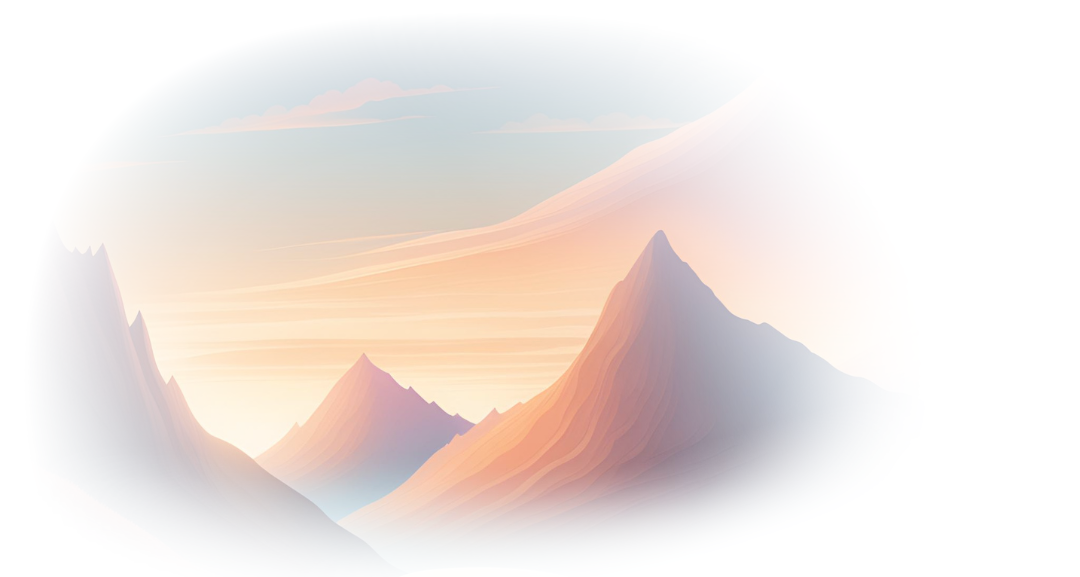
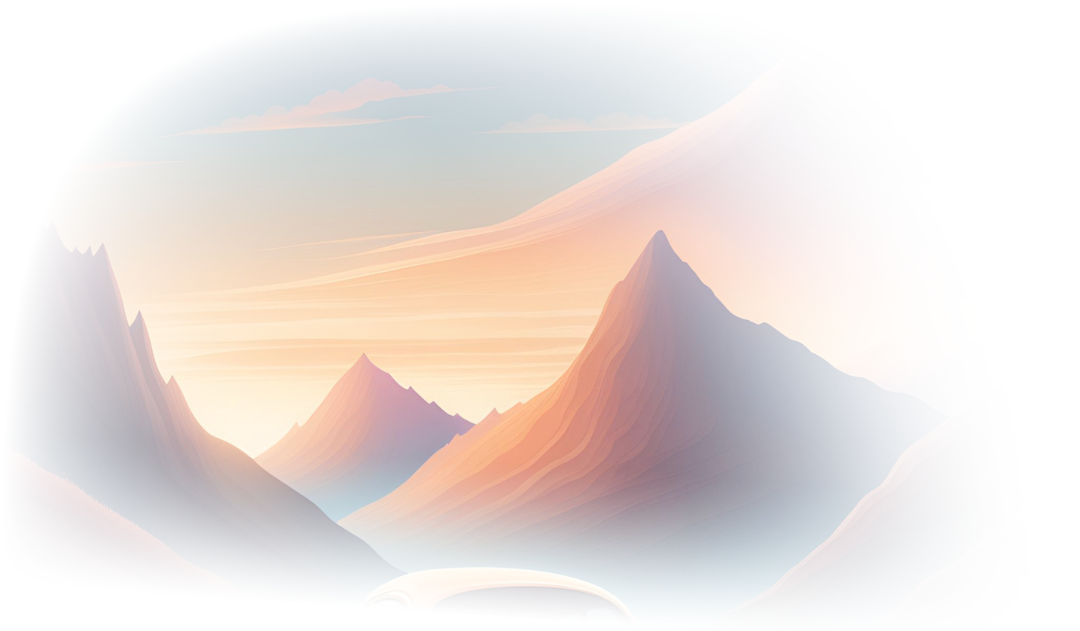
HomePage top gradient content ok

diff --git a/app/page.tsx b/app/page.tsx
@@ -28,11 +28,11 @@ const HomePage = () => {
       </GradientBackground>
 
       <ContentSection style={{zIndex: 2}}>
-        <img src={hillsImage.src} alt="car" className='hills-image' />
+        <img className='hills-image' src={hillsImage.src} alt="car" />
         <div className="absolute top-0 left-0 h-[100%] w-[100%] flex flex-col justify-center items-center gap-5">
           <h2 className='text-white text-5xl xs:text-6xl md:text-8xl text-center font-semibold drop-shadow-lg'>Discover New Adventures</h2>
           <GradientSubheader 
-            text='Share the journey, split the costs of gas and accommodation, while making new friends along the way' 
+            text='Share the journey. Split the costs of gas and accommodation while making new friends along the way' 
             className='text-center font-semibold drop-shadow-lg w-[75%]' 
           />
         </div>

diff --git a/components/GradientBackground.tsx b/components/GradientBackground.tsx
@@ -13,11 +13,11 @@ interface Props {
 
 
 
-const GradientBackground = ({children, height = '100vh', minHeight = '280px', className = '', style = {}}: Props) => {
+const GradientBackground = ({children, height, minHeight = '500px', className = '', style = {}}: Props) => {
   return (
     <section 
-      className={`relative gradient w-[100%] flex justify-center items-center ` + className}
-      style={{height: height, minHeight: minHeight, ...style}}
+      className={`gradient relative w-[100%] flex justify-center items-center h-lvh ` + className}
+      style={height ? { height, minHeight: minHeight, ...style} : {minHeight: minHeight, ...style}}
     >
       {/* top wave */}
       <div className="top-wave custom-shape-divider-top-1724221658">

diff --git a/app/page.css b/app/page.css
@@ -4,7 +4,7 @@
   display: flex;
   justify-content: center;
   align-items: center;
-  padding: 0 4rem;
+  padding: 0 10rem;
 }
 
 .tripia {
@@ -18,6 +18,7 @@
 @media (max-width: 900px) {
   .hero-content-wrapper {
     text-align: center;
+    padding: 0 4rem;
   }
 
   .tripia {
@@ -27,4 +28,14 @@
   .hero-image {
     display: none;
   }
+}
+
+
+
+/*content section (hills image) */
+.hills-image {
+  height: 50vh;
+  min-height: 500px;
+  width: 100%;
+  transform: scale(1.5) translateY(-5%);
 }

diff --git a/components/GradientBackground.css b/components/GradientBackground.css
@@ -7,6 +7,12 @@
   );
 }
 
+@media (max-height: 600px) {
+  .gradient {
+    height: 700px;
+  }
+}
+
 
 /*top wave*/
 .custom-shape-divider-top-1724221658 {
